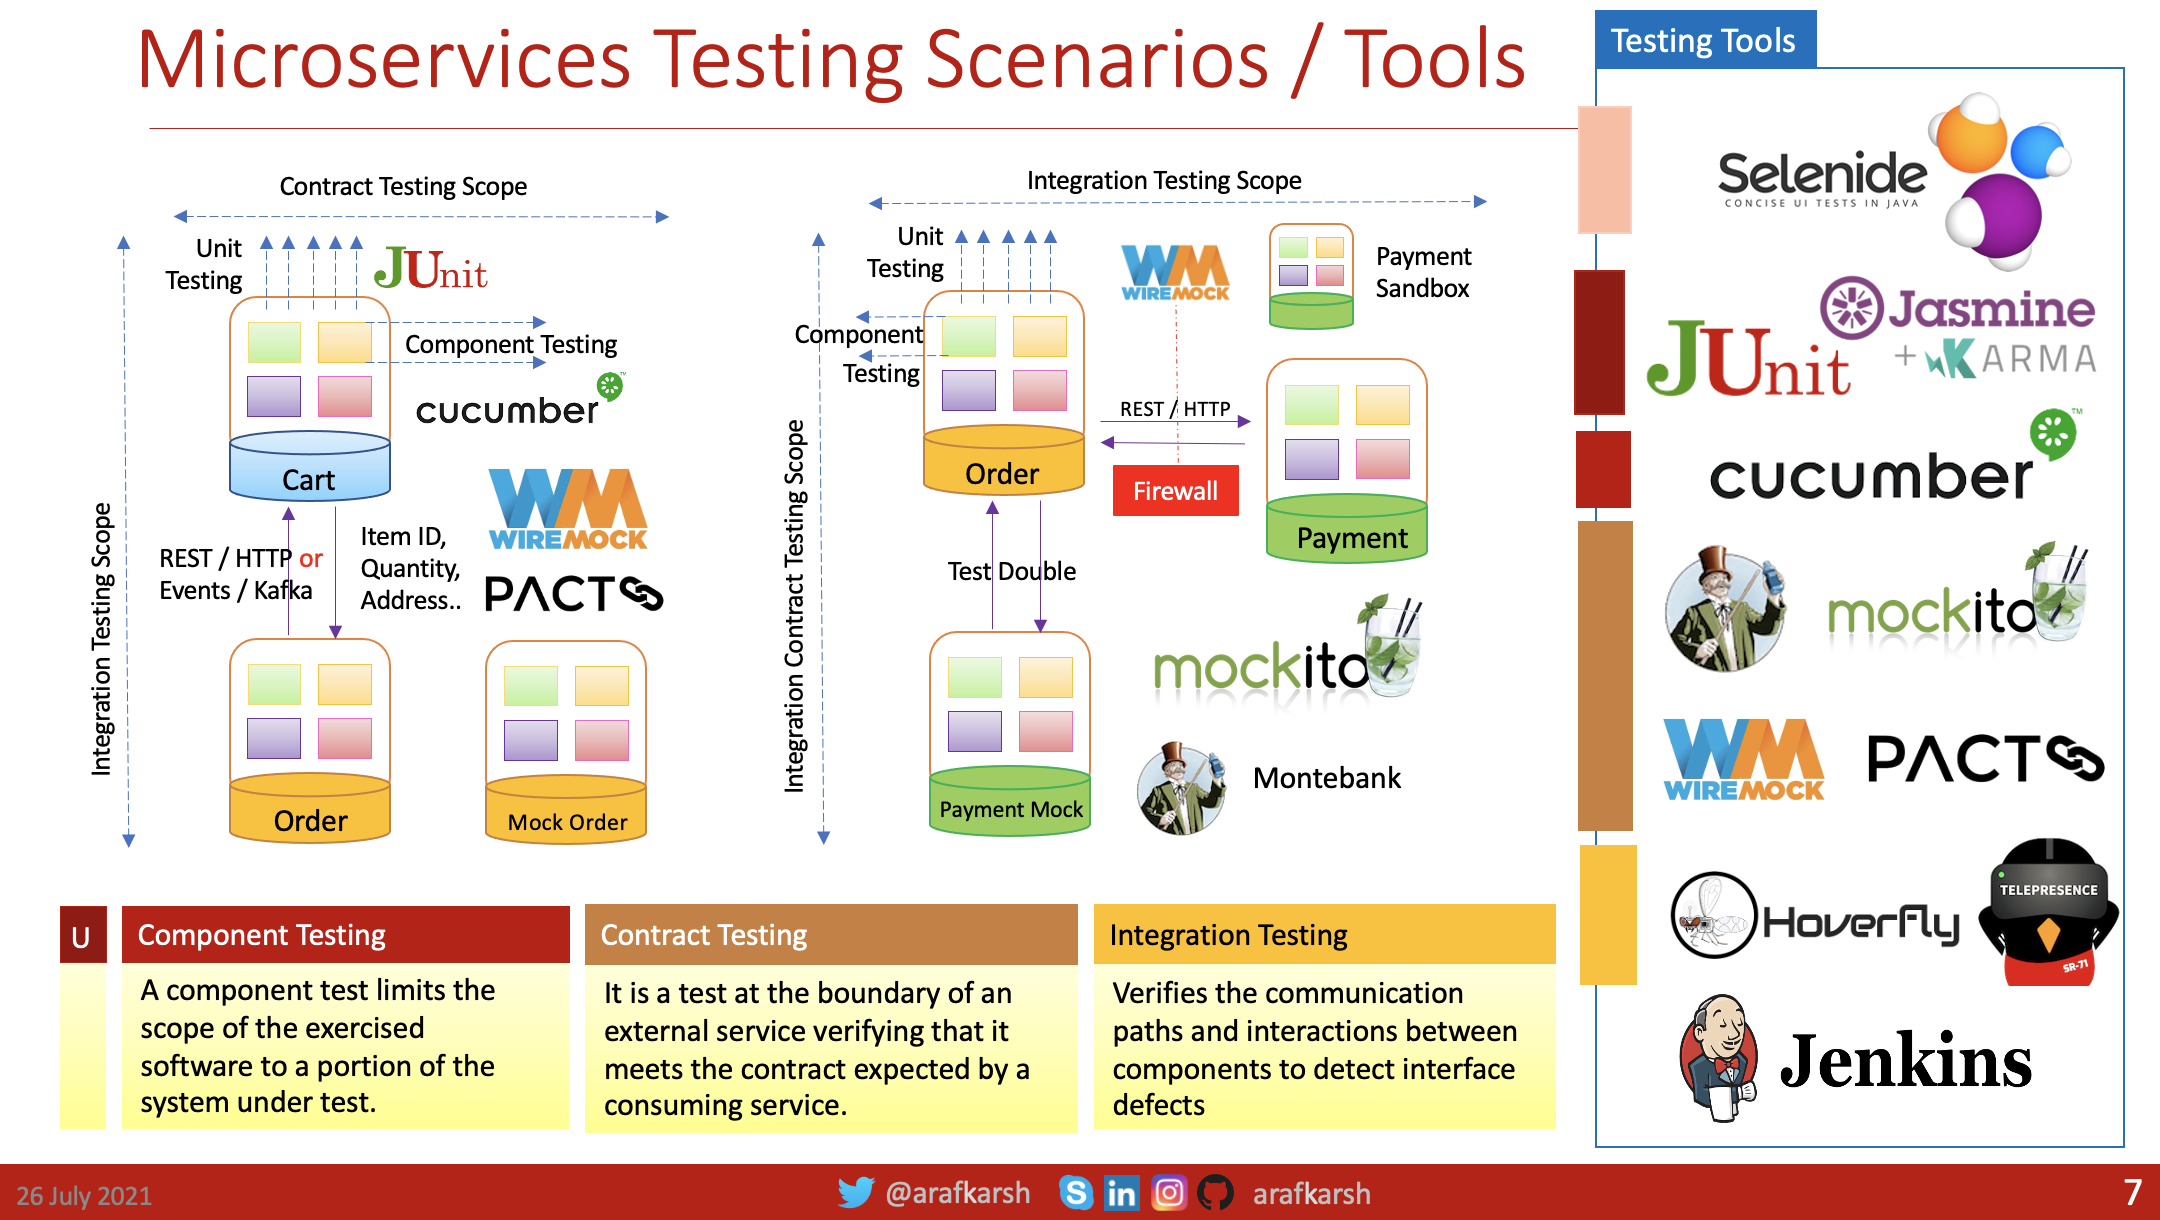
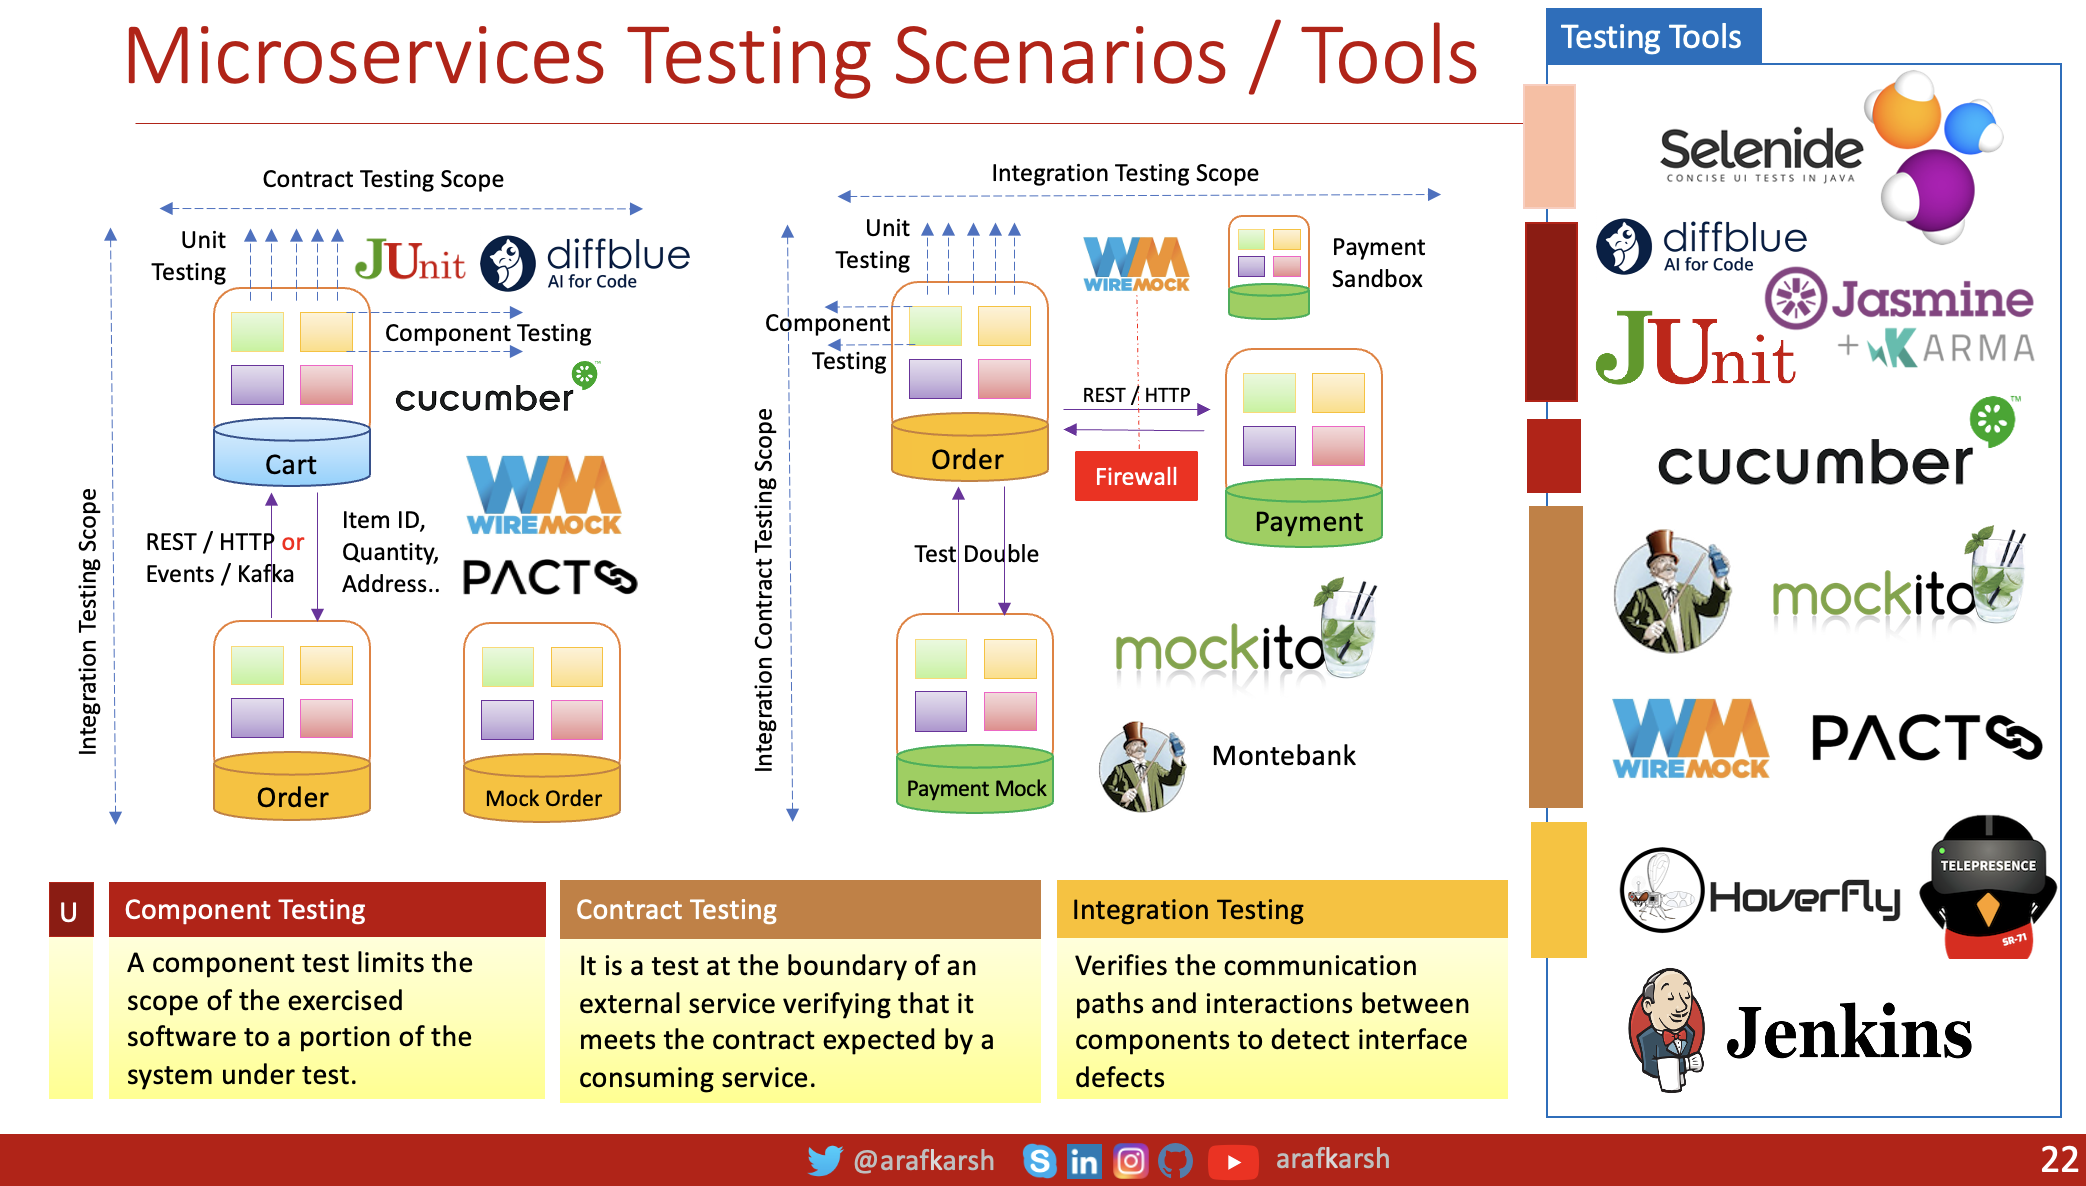
Added Diffblue Cover AI Test Generation...

diff --git a/README.MD b/README.MD
@@ -1,16 +1,18 @@
 # MS Test QuickStart - Order Microservice
 
-Cloud-Native testing strategies are critical to ensure the reliability and performance of applications 
-built on microservices architecture. A comprehensive approach includes unit testing, integration testing, 
-contract testing, and end-to-end testing. Unit testing focuses on individual components, ensuring they 
-function as expected. Integration testing validates the interaction between different services. 
+Comprehensive automation in testing strategies is vital for ensuring the reliability and peak 
+performance of cloud-native applications, especially those designed with a microservices architecture.
 
-Contract testing, facilitated by tools like Pact, ensures that services adhere to the agreed-upon 
-API contracts. End-to-end testing verifies the complete workflow of the application. Open source 
-tools such as JUnit, TestNG for unit testing, WireMock for mocking APIs, and Selenium for end-to-end 
-testing play a crucial role in these strategies. Additionally, tools like Kubernetes for container 
-orchestration and Istio for service mesh can help in creating realistic test environments, making 
-the testing process more robust and reliable
+A comprehensive approach includes unit testing, integration testing, contract testing, and end-to-end 
+testing.
+
+- Unit testing focuses on individual components, ensuring they function as expected.
+- Integration testing validates the interaction between different services.
+- Contract testing, facilitated by tools like Pact, ensures that services adhere to the agreed-upon 
+API contracts.
+- End-to-end testing verifies the complete workflow of the application. Open-source tools such as 
+JUnit, TestNG for unit testing, WireMock for mocking APIs, and Selenium for end-to-end testing 
+play a crucial role in these strategies.
 
 ![Microservices Testing Frameworks](https://raw.githubusercontent.com/arafkarsh/ms-test-quickstart/master/diagrams/Microservices-Testing-Tools.jpg)
 
